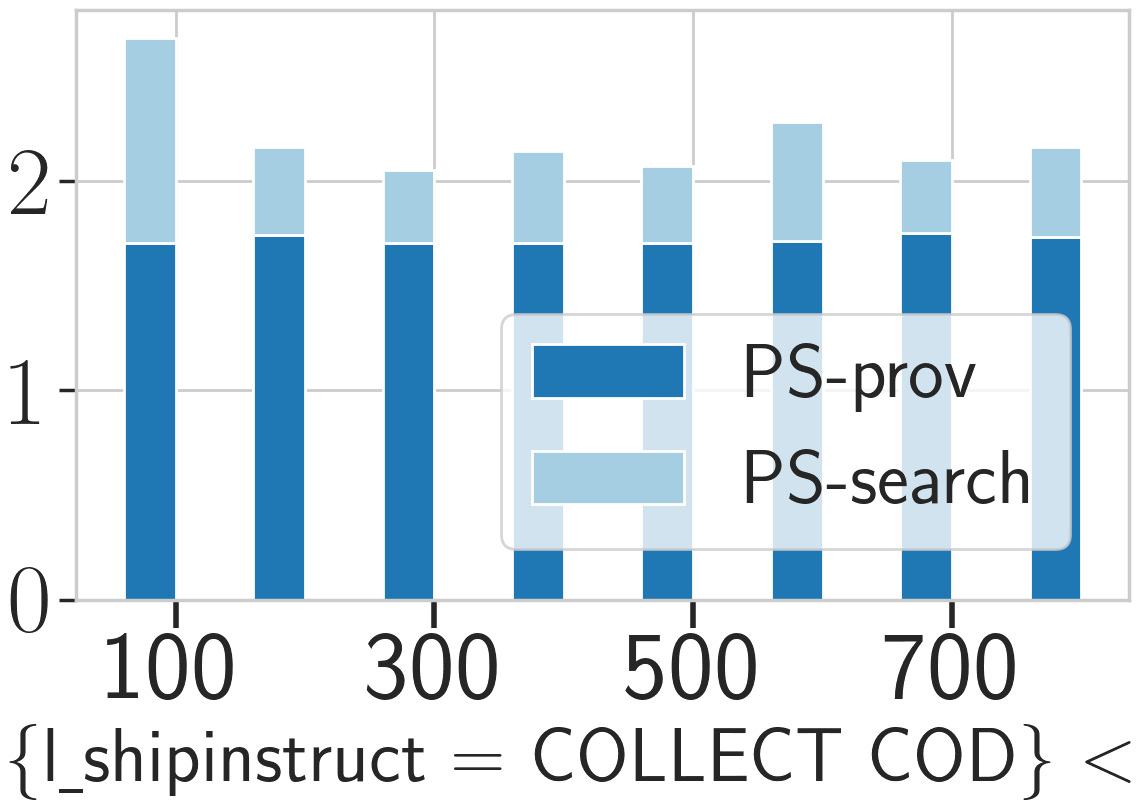
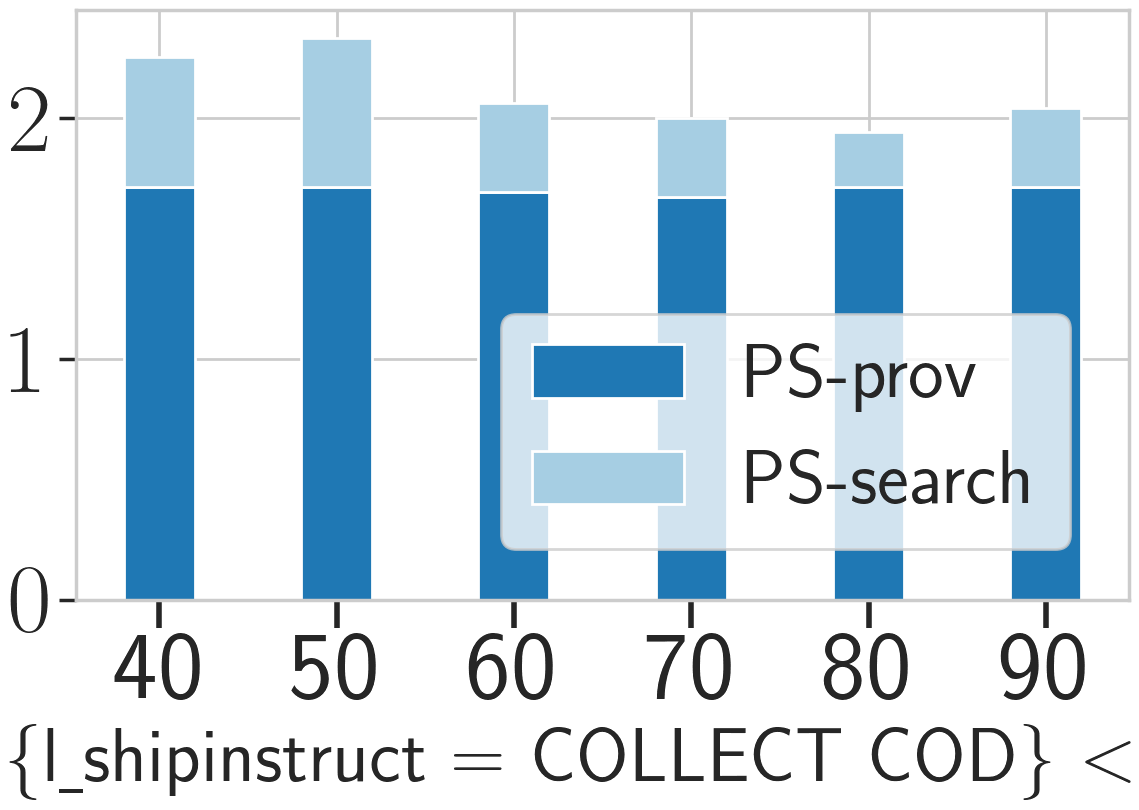
100M constraint change q3 contract

diff --git a/Experiment/TPCH/100M/constraint_change/q3_contract/constraint_change_q3_contract.py b/Experiment/TPCH/100M/constraint_change/q3_contract/constraint_change_q3_contract.py
@@ -41,7 +41,7 @@ def run_constraint(q, c):
     result_output = open(result_output_file, "w")
     result_output.write("selection file, result\n")
 
-    for i in range(0, 9):
+    for i in range(1, 7):
         print("constraint {}\n".format(i))
         constraint_file = r"./constraint_" + c + str(i) + ".json"
         print("========================== provenance search ===================================")
@@ -60,8 +60,8 @@ def run_constraint(q, c):
         #     print("naive alg out of time with {} time limit".format(time_limit))
         # else:
         #     print("running time = {}".format(running_time2))
-
-        print(*minimal_refinements1, sep="\n")
+        #
+        # print(*minimal_refinements2, sep="\n")
         result_output.write("\n")
         idx = i
         if running_time2 < time_limit:

diff --git a/Experiment/TPCH/100M/constraint_change/q3_contract/fig.py b/Experiment/TPCH/100M/constraint_change/q3_contract/fig.py
@@ -58,7 +58,7 @@ def run(query, size, constraint):
             execution_timebl1.append(0)
             execution_timebl2.append(0)
     # x_list = [19941230, 19950115, 19950130, 19950215, 19950230, 19950315, 19950330, 19950415]
-    x_list = [100, 300, 500, 700]
+    x_list = [40, 50, 60, 70, 80, 90]
 
     print(x_list, execution_timeps1, execution_timeps2)
 
@@ -81,7 +81,7 @@ def run(query, size, constraint):
     #         color=color[3], label=label[3])
     #
 
-    plt.xticks(np.arange(0, 8, 2) + bar_width/2, x_list, rotation=0, fontsize=70)
+    plt.xticks(np.arange(0, 6, 1), x_list, rotation=0, fontsize=70)
     plt.yticks(fontsize=70, weight='bold')
 
     plt.xlabel(r'\{l\underline{ }shipinstruct = COLLECT COD\} $<=$', fontsize=55)
